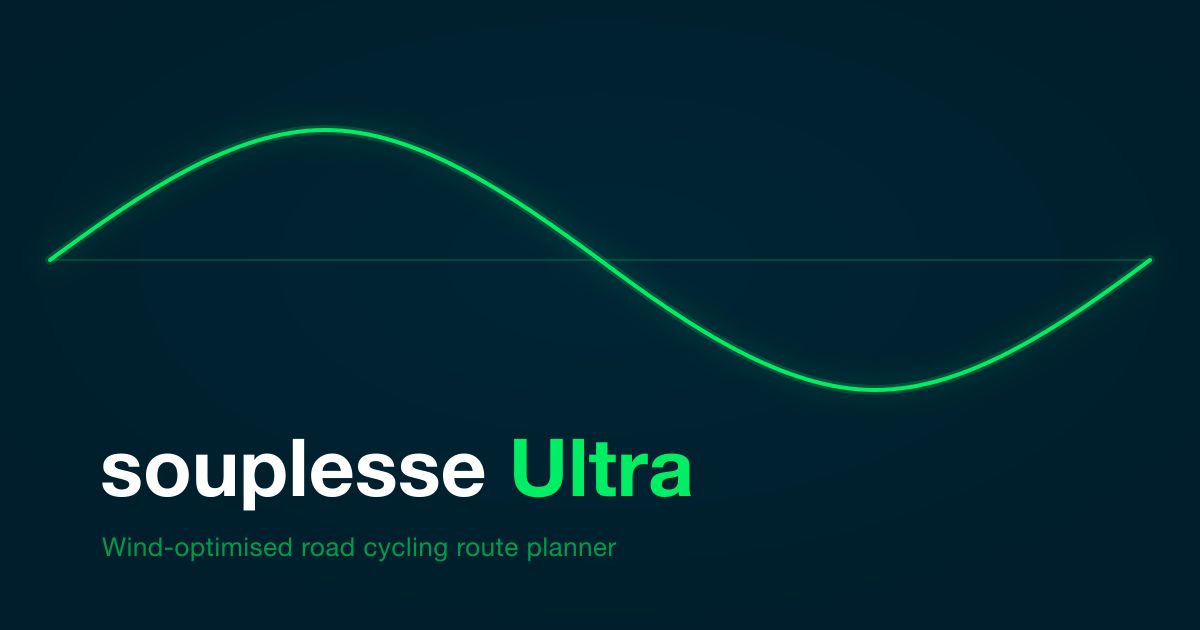
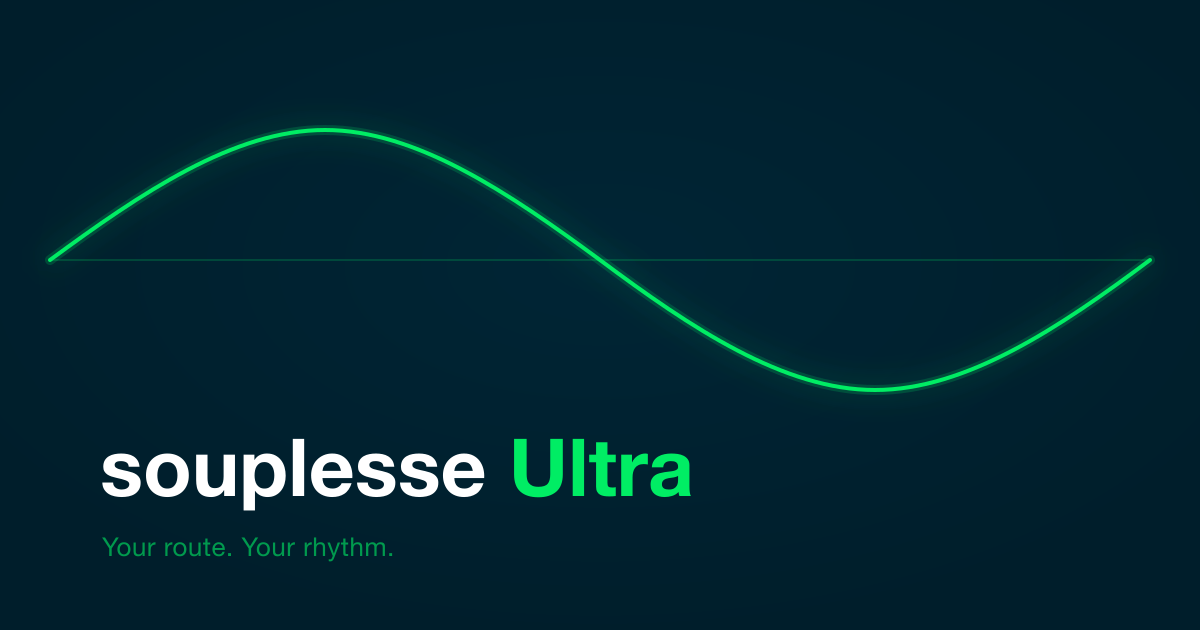
Update OG tagline to "Your route. Your rhythm."

Changed region(s): [[0.0925, 0.8444, 0.5242, 0.9048]]

diff --git a/src/app.html b/src/app.html
@@ -12,13 +12,13 @@
 		<link rel="apple-touch-icon" href="/apple-touch-icon.png" />
 		<link rel="manifest" href="/manifest.json" />
 		<meta property="og:title" content="souplesse Ultra" />
-		<meta property="og:description" content="Wind-optimised road cycling route planner" />
+		<meta property="og:description" content="Your route. Your rhythm." />
 		<meta property="og:image" content="https://souplesse-ultra.vercel.app/og-image.png" />
 		<meta property="og:type" content="website" />
 		<meta property="og:url" content="https://souplesse-ultra.vercel.app" />
 		<meta name="twitter:card" content="summary_large_image" />
 		<meta name="twitter:title" content="souplesse Ultra" />
-		<meta name="twitter:description" content="Wind-optimised road cycling route planner" />
+		<meta name="twitter:description" content="Your route. Your rhythm." />
 		<meta name="twitter:image" content="https://souplesse-ultra.vercel.app/og-image.png" />
 		%sveltekit.head%
 	</head>
